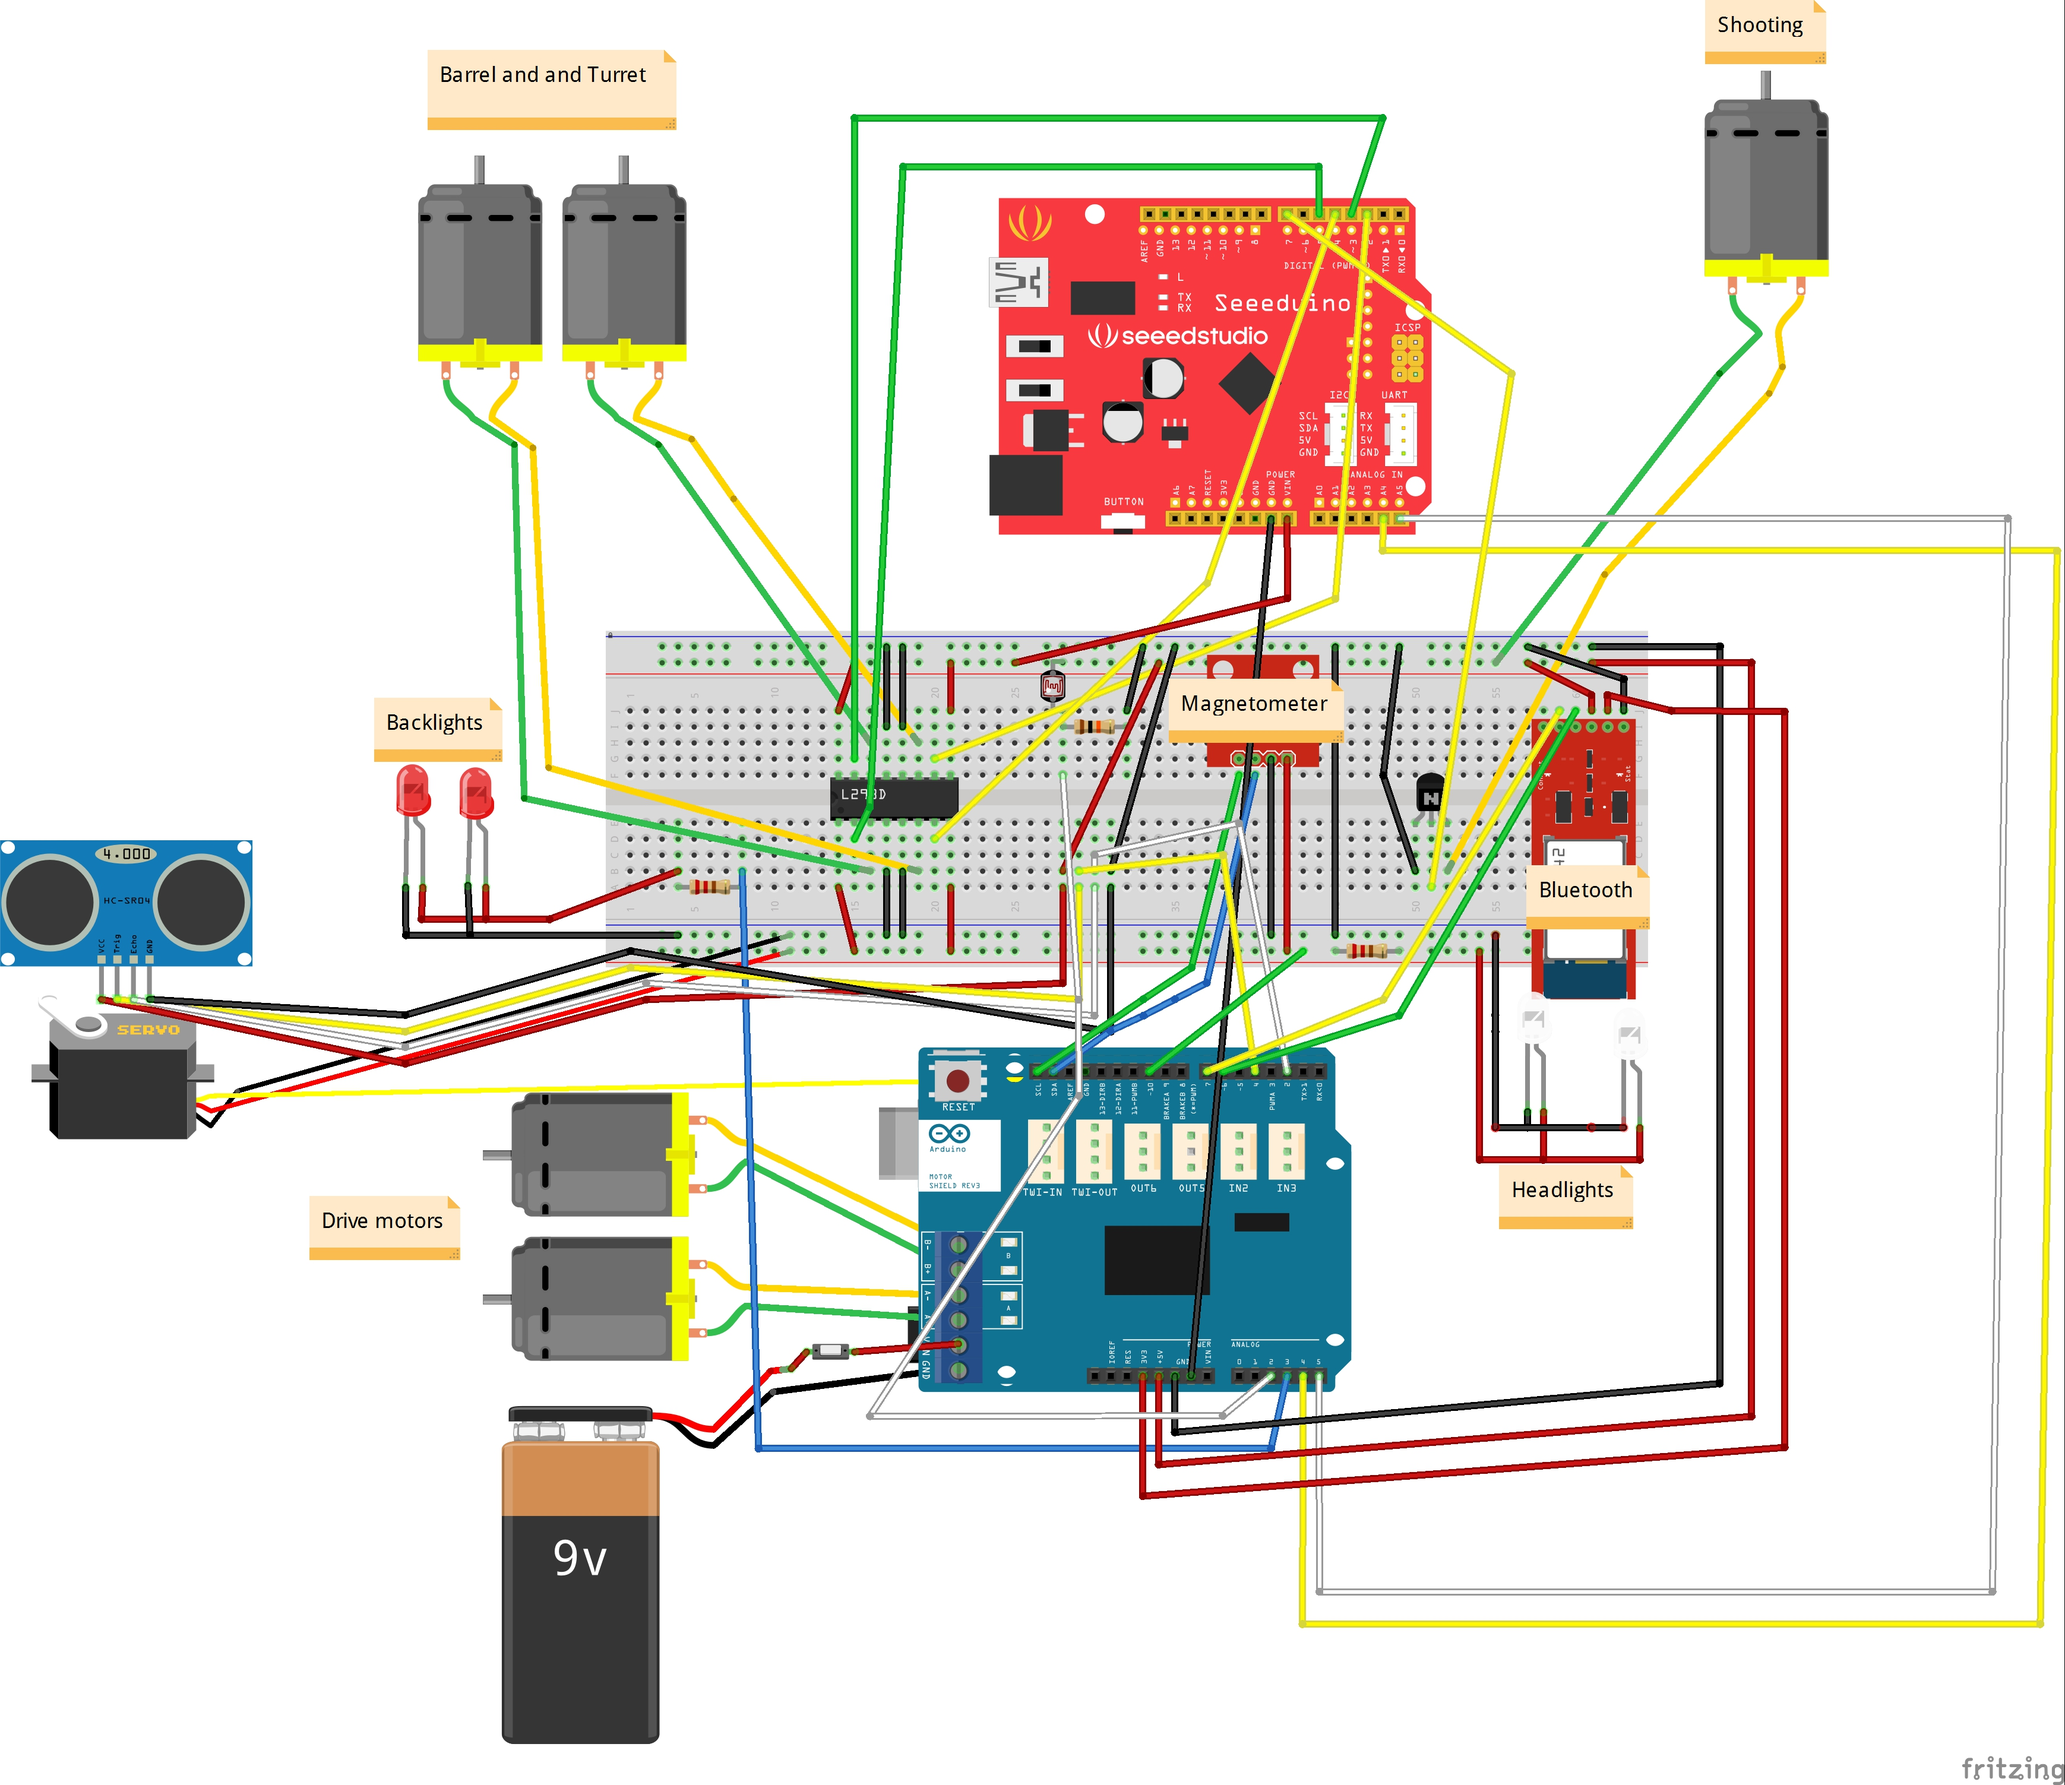
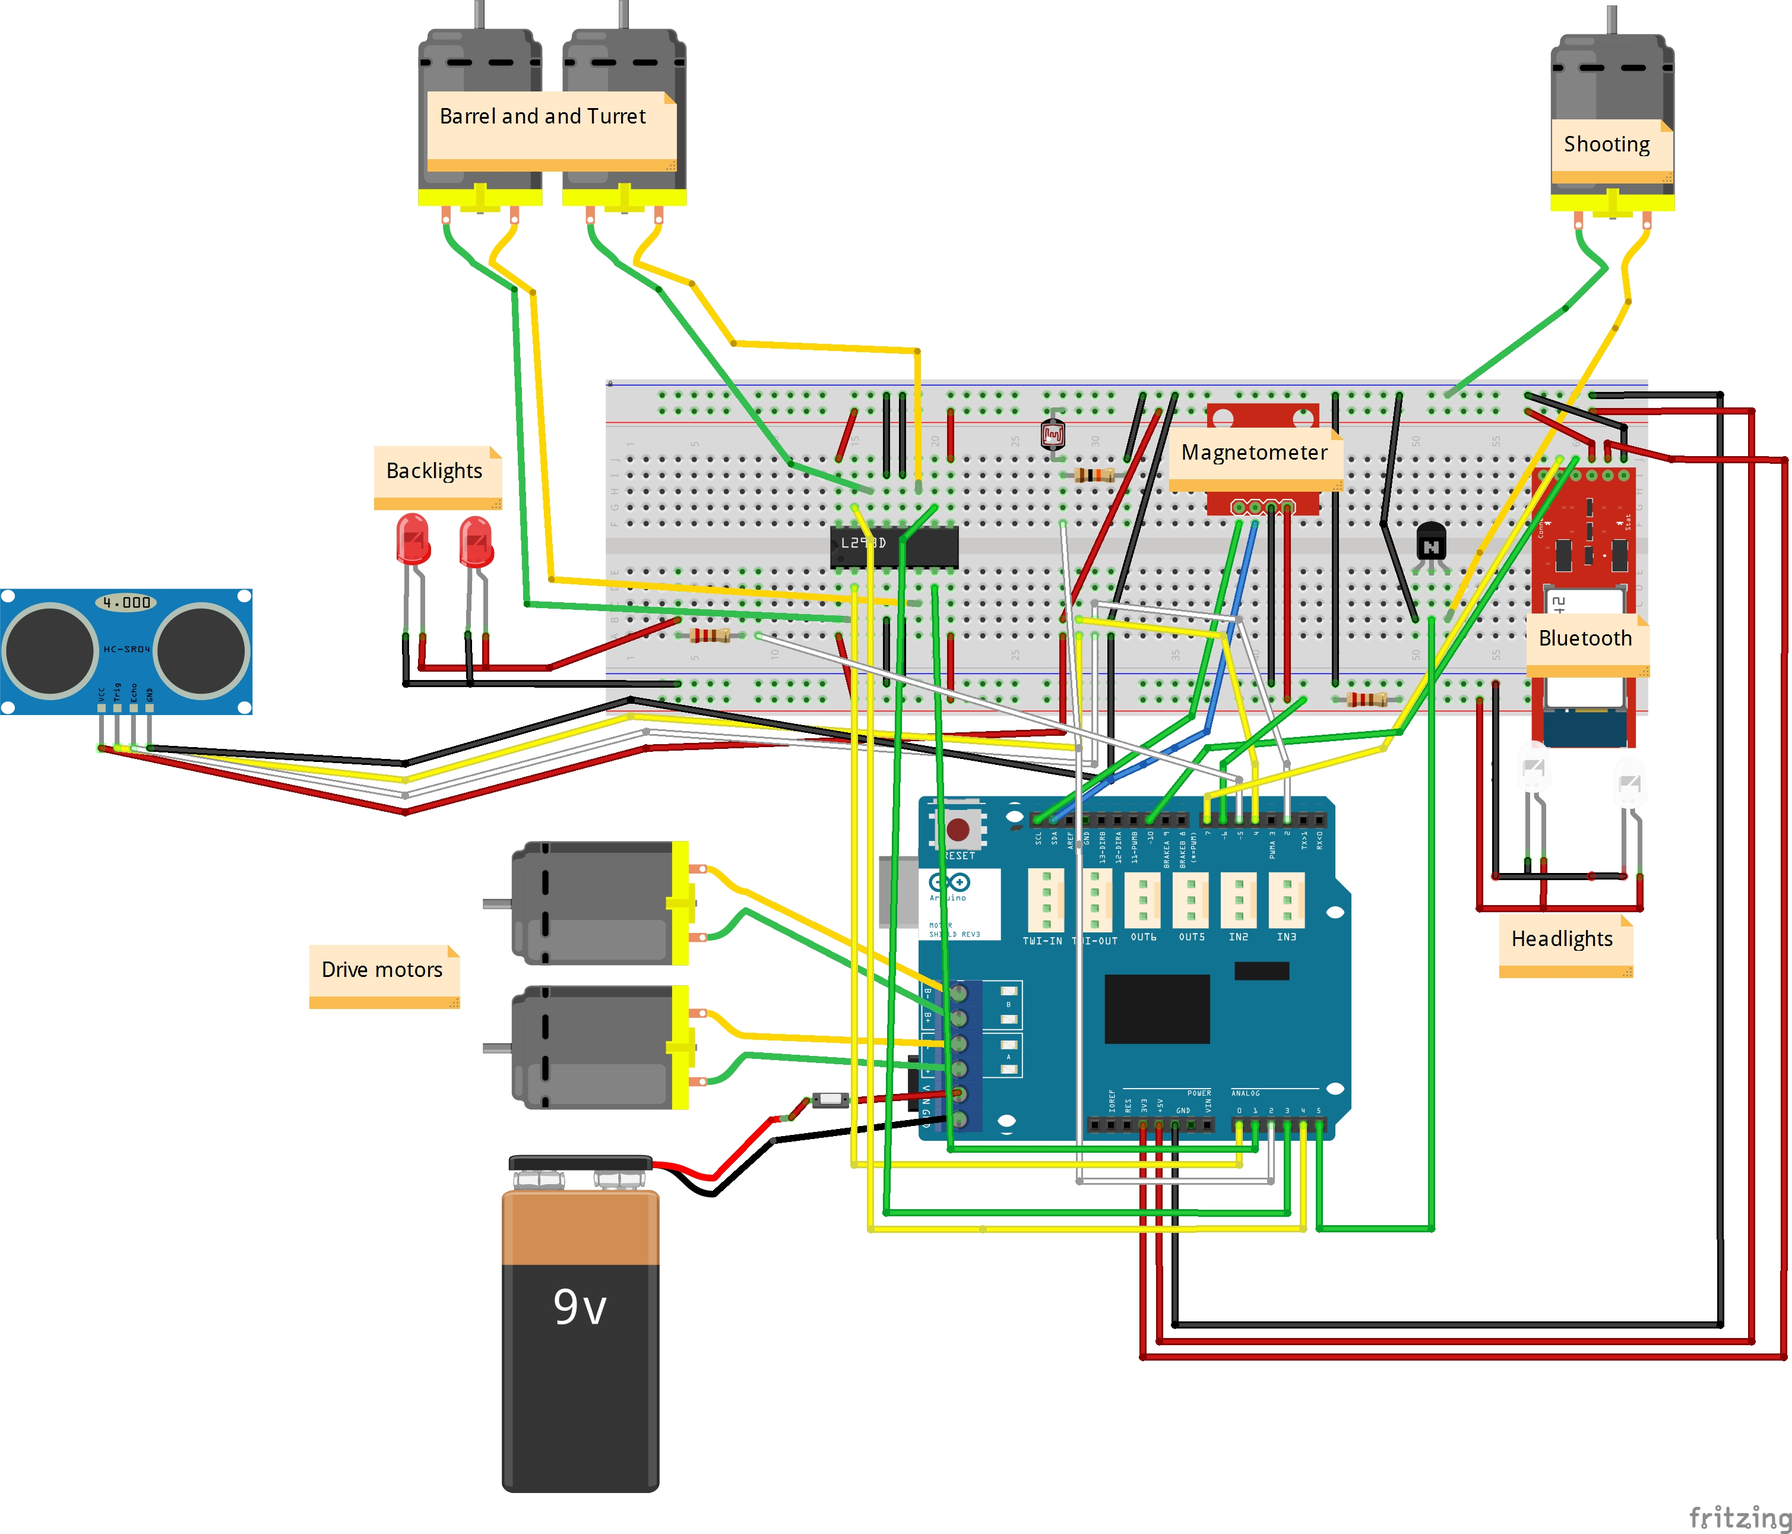
Project with one board

diff --git a/README.md b/README.md
@@ -5,16 +5,14 @@
 1. RC tank scale 1:16 (5 DC motors: 2 for driving, 1 for barrel, 1 for turrel, 1 for shooting)
 2. Arduino Uno
 3. Arduino Motor Shield
-4. Seeeduino v3.0
-5. Ultrasonic distance sensor (HC-SR04)
-6. Servo 180º (SG90)
-7. Battery (7.2V 1600mAH)
-8. Bluetooth (HC-05)
-9. Triple Axis Compass, Magnetometer Sensor (HMC5883L)
-10. L293D (for barrel and turrel control (bi-directionally)
-11. Transistor P2N2222 (for shooting)
-12. Photoresitor
-13. 1x10k Ohm (for photoresitor) and 2x220 Ohm (for LED's)resistors
+4. Ultrasonic distance sensor (HC-SR04)
+5. Battery (7.2V 1600mAH)
+6. Bluetooth (HC-05)
+7. Triple Axis Compass, Magnetometer Sensor (HMC5883L)
+8. L293D (for barrel and turrel control (bi-directionally)
+9. Transistor P2N2222 (for shooting)
+10. Photoresitor
+11. 1x10k Ohm (for photoresitor) and 2x220 Ohm (for LED's)resistors
 
 #Procject scheme
 
